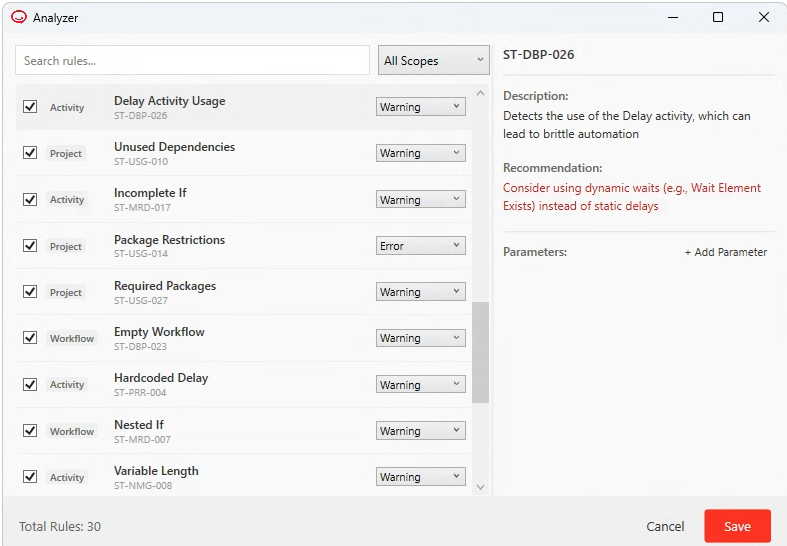
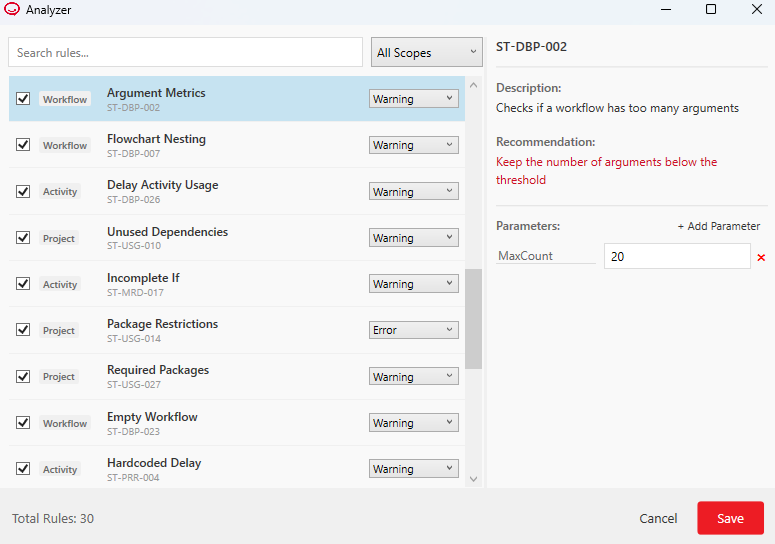
docs: add documentation and images for Workflow Analyzer rules ST-DBP-002, ST-DBP-003, ST-ANA-003, and ST-ANA-006

diff --git a/docs/studio/latest/user-guide/workflow-analyzer/project-anatomy/st-ana-006.md b/docs/studio/latest/user-guide/workflow-analyzer/project-anatomy/st-ana-006.md
@@ -1,0 +1,25 @@
+---
+id: st-ana-006
+title: ST-ANA-006 - Main Workflow Exists
+sidebar_label: ST-ANA-006 - Main Workflow Exists
+sidebar_position: 6
+description: ST-ANA-006 - Main Workflow Exists
+displayed_sidebar: studioSidebar
+---
+# ST-ANA-006 - Main Workflow Exists
+
+**Rule ID:** ST-ANA-006
+
+**Scope:** Project
+
+## Description
+
+The rule checks whether the `Main.xaml` file mentioned in the `project.json` file exists. 
+
+![st-ana-006](/static/img/st-ana-006.png)
+
+## Recommendation
+
+Projects with a defined entry point or main file have this specific file name mentioned in the `project.json` file, as a value for the main parameter. Read more About the Project.json File.
+
+It is recommended to fix the `project.json` file to point to the entry/main workflow.

diff --git a/docs/studio/latest/user-guide/workflow-analyzer/project-anatomy/st-ana-003.md b/docs/studio/latest/user-guide/workflow-analyzer/project-anatomy/st-ana-003.md
@@ -1,0 +1,19 @@
+---
+id: st-ana-003
+title: ST-ANA-003 - Project Workflow Count
+sidebar_label: ST-ANA-003 - Project Workflow Count
+sidebar_position: 3
+description: ST-ANA-003 - Project Workflow Count
+displayed_sidebar: studioSidebar
+---
+# ST-ANA-003 - Project Workflow Count
+
+**Rule ID:** ST-ANA-003
+
+**Scope:** Workflow
+
+## Description
+
+This counter lists the number of workflow files by project folder.
+
+![st-ana-003](/static/img/st-ana-003.png)

diff --git a/docs/studio/latest/user-guide/workflow-analyzer/design-best-practices/st-dbp-003.md b/docs/studio/latest/user-guide/workflow-analyzer/design-best-practices/st-dbp-003.md
@@ -16,8 +16,8 @@ displayed_sidebar: studioSidebar
 
 The rule checks whether exceptions are caught with a purpose, and not only to prevent error messages.
 
+![st-dbp-003](/static/img/st-dbp-003.png)
+
 ## Recommendation
 
 It is recommended to insert log messages in the Catch block of a Try Catch activity, in addition to the exception handling itself.
-
-![st-dbp-003](/static/img/st-dbp-003.png)

diff --git a/docs/studio/latest/user-guide/workflow-analyzer/design-best-practices/st-dbp-002.md b/docs/studio/latest/user-guide/workflow-analyzer/design-best-practices/st-dbp-002.md
@@ -22,7 +22,7 @@ Reduce the number of arguments in a workflow to a minimum.
 
 ## Modifying the Rule
 
-In the Project Settings window, select the Workflow Settings tab. Find and select the rule, as in the image below:
+In the Project Settings window, select the Arguments Metrics tab. Find and select the rule, as in the image below:
 
 ![st-dbp-002](/static/img/st-dbp-002.png)
 